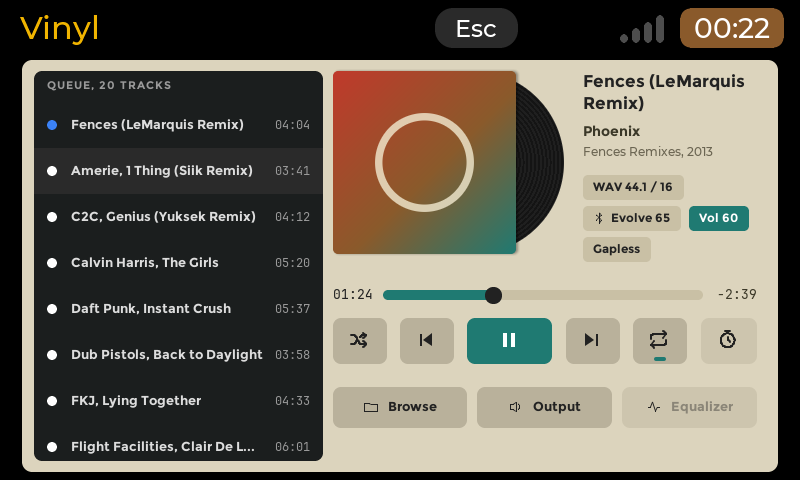
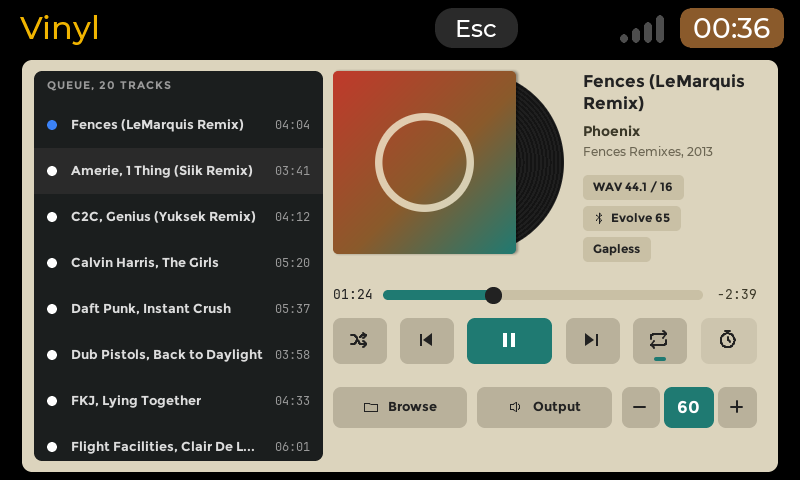
vinyl: the large layout gets the volume group (owner, 2026-11-13)
The owner on the full-UX canvas: the Menu key is accepted as the entry
point for tools and settings (P2, not built now); "on large the volume
label "Vol 60" is useless with the volume controls at the bottom of the
screen"; landscape 480x320 keeps its Vol chip and strip.

- Large (800x480 and the other two-pane canvases): Browse | Output | the
  volume group (- 40, the level 52, + 40, 4 px gaps), as NP-800x480 of the
  canvas draws it with Output in its Menu key's place; the dimmed
  Equalizer key is dropped; no Vol chip and no strip. The output chip stays
  a chip that opens Output, on its own row, scrolling when too long
  (layout data: vol_group and out_button_on apart).
- Scenes: qa, qa-novolume and qa-long use the group at 800x480; np-large
  checks the new row. Layout test for the large class. README,
  BOARD-TESTS B16, decisions.md (the owner's words), the 800x480 shot.

Claude-Session: https://claude.ai/code/session_01DZirtLRRFpxSjax5Qp5ZSW

Changed region(s): [[0.8125, 0.7812, 0.9375, 0.9062], [0.8438, 0.4062, 0.9375, 0.5], [0.875, 0.0312, 0.9688, 0.0938]]

diff --git a/apps/vinyl/src/core/layout/layout.cpp b/apps/vinyl/src/core/layout/layout.cpp
@@ -123,6 +123,7 @@ NowGeom now_geom(SizeClass c) {
         g.repeat_dash = R{266, 408, 12, 4};
         g.bottom = {word("queue", 24, 426, 100, 40)};
         g.vol_group = true; /* owner, 2026-11-13: the Output key becomes the volume group */
+        g.out_button_on = true;
         g.vol_minus = R{132, 426, 48, 40};
         g.vol_value = R{184, 426, 60, 40};
         g.vol_plus = R{248, 426, 48, 40};
@@ -157,6 +158,7 @@ NowGeom now_geom(SizeClass c) {
         g.upnext = R{20, 366, 440, 44};
         g.bottom = {word("browse", 20, 420, 120, 42), word("queue", 150, 420, 120, 42)};
         g.vol_group = true; /* owner, 2026-11-13: the Output key becomes the volume group */
+        g.out_button_on = true;
         g.vol_minus = R{280, 420, 52, 42};
         g.vol_value = R{336, 420, 68, 42};
         g.vol_plus = R{408, 420, 52, 42};
@@ -181,7 +183,7 @@ NowGeom now_geom(SizeClass c) {
         g.chip0 = R{590, 164, 0, 26};
         g.chip_step = 32;
         g.chip_rows = 3;
-        g.chip_layout = {{0}, {2, 1}, {3}};
+        g.chip_layout = {{0}, {2}, {3}}; /* owner, 2026-11-13: no Vol chip, the volume is the bottom group */
         g.short_format = true;
         g.quality_in_chip = false;
         g.time = text(330, 274, 48, 28, 14, false, 28);
@@ -191,7 +193,13 @@ NowGeom now_geom(SizeClass c) {
                        btn("next", 572, 312, 56, 48), btn("repeat", 642, 312, 56, 48), btn("sleep", 712, 312, 58, 48)};
         g.transport.back().enabled = false; /* sleep timer: P2 */
         g.repeat_dash = R{664, 352, 12, 4};
-        g.bottom = {word("browse", 330, 384, 140, 42), word("output", 480, 384, 140, 42), word("eq", 630, 384, 140, 42, false)};
+        /* owner, 2026-11-13 (NP-800x480 of the full-UX canvas): Browse, Output (the Menu key's place, P2), the volume
+         * group where the dimmed Equalizer key was */
+        g.bottom = {word("browse", 330, 384, 140, 42), word("output", 480, 384, 140, 42)};
+        g.vol_group = true;
+        g.vol_minus = R{630, 384, 40, 42};
+        g.vol_value = R{674, 384, 52, 42};
+        g.vol_plus = R{730, 384, 40, 42};
         g.seams = {262, 306, 372};
         break;
     }

diff --git a/apps/vinyl/tests/test_keys_outputs.cpp b/apps/vinyl/tests/test_keys_outputs.cpp
@@ -362,15 +362,25 @@ void test_layout() {
         int ids = 0;
         for (const std::vector<int> &row : g.chip_layout)
             for (int id : row) ids |= 1 << id;
-        CHECK_EQ(ids, c == SizeClass::Small ? 7 : c == SizeClass::Portrait ? 1 : c == SizeClass::Square ? 9 : 15);
-        CHECK_EQ(g.vol_group, c == SizeClass::Square || c == SizeClass::Portrait);
+        /* the large class (owner, 2026-11-13): format, output, gapless chips, no Vol chip */
+        CHECK_EQ(ids, c == SizeClass::Small ? 7 : c == SizeClass::Portrait ? 1 : c == SizeClass::Square ? 9 : 13);
+        CHECK_EQ(g.vol_group, c != SizeClass::Small);
+        CHECK_EQ(g.out_button_on, c == SizeClass::Square || c == SizeClass::Portrait);
         if (g.vol_group) {
-            CHECK(inside(g.vol_minus) && inside(g.vol_value) && inside(g.vol_plus) && inside(g.out_button));
+            CHECK(inside(g.vol_minus) && inside(g.vol_value) && inside(g.vol_plus));
             CHECK(g.vol_minus.right() < g.vol_value.x && g.vol_value.right() < g.vol_plus.x);
             CHECK(g.bottom.back().box.right() < g.vol_minus.x);
             CHECK_NEAR(g.vol_plus.right(), g.transport.back().box.right(), 1e-9); /* the group ends with the keys above */
-            CHECK_NEAR(g.out_button.right(), g.title.box.right(), 1e-9);         /* the button fills the info column */
+            for (const Btn &b : g.bottom) CHECK(b.id != "eq");                    /* the dimmed Equalizer key is gone */
+        }
+        if (g.out_button_on) {
+            CHECK(inside(g.out_button));
+            CHECK_NEAR(g.out_button.right(), g.title.box.right(), 1e-9); /* the button fills the info column */
             for (const Btn &b : g.bottom) CHECK(b.id != "output");
+        } else if (g.vol_group) {
+            bool output_key = false; /* large: the Output key stays until the Menu key (P2) */
+            for (const Btn &b : g.bottom) output_key = output_key || b.id == "output";
+            CHECK(output_key);
         }
         /* the notice box across the seek row */
         const R n = notice_box_now(g, 50);

diff --git a/apps/vinyl/src/core/layout/layout.hpp b/apps/vinyl/src/core/layout/layout.hpp
@@ -91,12 +91,14 @@ struct NowGeom {
     std::vector<Btn> bottom;
     bool has_queue_pane = false;
     R queue_pane;
-    /* The volume group of the square and portrait drafts (owner, 2026-11-13: NowPlaying-480x480 / -320x480): "-", the
-     * level on teal, "+" in the bottom row where the Output key was; no Vol chip and no volume strip on those layouts.
-     * The output chip is then a button of its own (icon, the device's name, a chevron) that opens the Output page:
-     * out_button is its box (portrait: x is the least, it starts right of a wider format chip and ends at the same
-     * right edge). The small and large classes keep the Vol chip, the strip (and the large class its Output key). */
+    /* The volume group (owner, 2026-11-13): "-", the level on teal, "+" in the bottom row; no Vol chip and no volume
+     * strip where it is. Square and portrait (NowPlaying-480x480 / -320x480): it takes the Output key's place and the
+     * output chip becomes a button of its own (out_button_on: icon, the device's name, a chevron; out_button is its box,
+     * in portrait x is the least, it starts right of a wider format chip). Large (NP-800x480 of the full-UX canvas): it
+     * takes the dimmed Equalizer key's place, the Output key stays until the Menu key (P2) exists, the output chip stays
+     * a chip. The small class keeps the Vol chip and its strip. */
     bool vol_group = false;
+    bool out_button_on = false;
     R vol_minus, vol_value, vol_plus;
     R out_button;
     double queue_row_h = 40, queue_heading_px = 11;

diff --git a/apps/vinyl/src/ui/vinyl_view.cpp b/apps/vinyl/src/ui/vinyl_view.cpp
@@ -685,7 +685,7 @@ struct View::Impl {
                 if (id == 2) chips[id].set_scroll();
             }
         }
-        if (g.vol_group) build_out_button(r);
+        if (g.out_button_on) build_out_button(r);
 
         out_hit = hit(r, 0, 0, 1, 1, 0, 0, [this] {
             if (act.button) act.button("output");
@@ -1006,7 +1006,7 @@ struct View::Impl {
         /* the touch areas over the output and the volume chips follow the chips (layout_now_hits); the square and
          * portrait layouts have the output button instead */
         for (NowHit &e : now_hits) {
-            if (g.vol_group && e.obj == out_hit) continue;
+            if (g.out_button_on && e.obj == out_hit) continue;
             const Chip *c = e.obj == out_hit ? &chips[2] : (vol_hit && e.obj == vol_hit) ? &chips[1] : nullptr;
             if (!c) continue;
             show(e.obj, c->width > 0);
@@ -1015,7 +1015,7 @@ struct View::Impl {
         place_out_button(v);
         update_vol_group(v);
         const int outb_x = outb_box ? lv_obj_get_x(outb_box) : 0;
-        const int sig[7] = {chips[1].x, chips[1].width, g.vol_group ? outb_x : chips[2].x, chips[2].width, vol_mode ? 2 : 1,
+        const int sig[7] = {chips[1].x, chips[1].width, g.out_button_on ? outb_x : chips[2].x, chips[2].width, vol_mode ? 2 : 1,
                             chips[1].y, chips[2].y};
         if (!std::equal(sig, sig + 7, hits_sig)) { /* the chips moved, or the strip opened or closed */
             std::copy(sig, sig + 7, hits_sig);

diff --git a/apps/vinyl/README.md b/apps/vinyl/README.md
@@ -29,7 +29,7 @@ The deck (640x480) with the volume strip, square (720x720, the HackBerry) and la
 | Page | What |
 |---|---|
 | **Browser** (the root) | `~/Music` and the mounted drives (`/media/<user>`, `/run/media/<user>`, `/mnt`): folders A-Z, playlists (`.m3u`, `.m3u8`), tracks A-Z (natural order) with their title tags and lengths; the mini player at the bottom. A track plays its folder as the queue; a playlist plays its entries. |
-| **Now playing** | cover art (embedded JPEG or PNG, else the drawn sleeve), title (one line that scrolls, or two lines on the square and large screens), artist, album and year, the format, the output (a button on the square and portrait layouts), the volume (a chip on 480x320 and 800x480, the bottom volume group on the square and portrait layouts); the position with a seek bar (a tap seeks), previous, play / pause, next, shuffle, repeat (off, all, one: a teal mark, and a "1" for one); up next (square), the queue pane (large). |
+| **Now playing** | cover art (embedded JPEG or PNG, else the drawn sleeve), title (one line that scrolls, or two lines on the square and large screens), artist, album and year, the format, the output (a button on the square and portrait layouts), the volume (a chip on 480x320 and 640x480, the bottom volume group on the square, portrait and large layouts); the position with a seek bar (a tap seeks), previous, play / pause, next, shuffle, repeat (off, all, one: a teal mark, and a "1" for one); up next (square), the queue pane (large). |
 | **Queue** | the play order from the playing track, "3 OF 20, 1 H 24 MIN LEFT"; Move up, Move down, Remove, Clear all (keeps the playing track). No dragging anywhere. |
 | **Output** | Automatic (the system's default output), the Bluetooth devices (music or call quality), the wired outputs, a paired device that is off (dimmed). Vinyl never switches output by itself: when the output in use goes away, playback pauses ("Evolve 65 disconnected. Paused."). |
 
@@ -51,7 +51,7 @@ output lists are read in the background).
 | Folder up | Left or Backspace (browser) | the ".." row |
 | Queue pane (800x480 and wider) | Up / Down pick a track, Enter plays it | tap picks, tap again plays |
 | Queue editing | U move up, D move down, Delete or X remove, C clear all | the four buttons |
-| Volume | `-` / `=`: the volume of the output Vinyl plays on, 5 % a step | square and portrait layouts: "-" and "+" of the volume group in the bottom row, the level between them (teal); 480x320 and 800x480: tap the volume chip, the volume strip ("-", the level, its bar, "+") replaces the seek row for 4 s (a second tap closes it). Both set and show the playing output's real level; where nothing can change it a tap shows "Volume is not available on this board" |
+| Volume | `-` / `=`: the volume of the output Vinyl plays on, 5 % a step | square, portrait and large (800x480) layouts: "-" and "+" of the volume group in the bottom row, the level between them (teal); 480x320 (and the deck's 640x480): tap the volume chip, the volume strip ("-", the level, its bar, "+") replaces the seek row for 4 s (a second tap closes it). Both set and show the playing output's real level; where nothing can change it a tap shows "Volume is not available on this board" |
 | Close a notice | Esc | tap it (it also goes after 6 s, 8 s for a disconnect) |
 | Back; at the browser, quit | Esc | the header's Esc |
 | Headset, speaker, keyboard media keys | Play/Pause, PlayCD, PauseCD (a toggle), Next, Previous (as Right / Left above, held too), Stop (pause and back to the start) | |
@@ -141,8 +141,9 @@ Delete it to start fresh. Vinyl writes nothing else (it never writes tags or mus
 ## Known limits (0.1.0)
 
 - Folder browsing only: no library database, no search, no artist / album views (P2).
-- No EQ, ReplayGain, crossfade or sleep timer: the drafts' sleep-timer and Equalizer keys are drawn dimmed, and the
-  "Gapless" chip shows without the ReplayGain figure (P2).
+- No EQ, ReplayGain, crossfade or sleep timer: the drafts' sleep-timer key is drawn dimmed (the Equalizer key of 800x480
+  gave its place to the volume group), and the "Gapless" chip shows without the ReplayGain figure (P2). The Menu key (tools
+  and settings) is P2 too.
 - No metadata to headsets or car displays (MPRIS / AVRCP, P2); headset keys work when BlueZ hands them to an input node.
 - A cover larger than 1200 px on its long side is not decoded (the memory cap on the Pi Zero 2 W): the drawn sleeve shows.
 - FFmpeg seeks land on the packet at or before the position; the AAC length is the container's.

diff --git a/apps/vinyl/tests/BOARD-TESTS.md b/apps/vinyl/tests/BOARD-TESTS.md
@@ -34,9 +34,9 @@ volume strip).
 | B13 | Now playing, a keyboard in front: Left within the first 2 s of a track; Left again after 5 s of it; Right | Left within 2 s: the previous track; Left after 2 s: the same track from 0:00; Right: the next track. Each press acts once, on its release | pass
 | B14 | Hold Right (about 2 s), let go; hold Left (about 2 s), let go; once playing, once paused | after half a second the time runs ahead (back) at about 3x with no sound, no scratch; on release the sound comes back from there; paused stays paused; holding Left stops at 0:00 (never the previous track); holding Right past the end goes on into the next track. No extra skip on release | pass
 | B15 | The same short and held presses with the headset's / speaker's next and previous buttons, in front and hidden, and on the touch keys beside play (and the mini player's next key) | the same results as B13 and B14 (if a headset sends no release while held, say what happened: the log has `media key: next` and `(released)` lines) | pass
-| B16 | Square and portrait layouts (HackBerry, PDA mode): tap "+" twice and "-" once in the bottom volume group, then the output button. 480x320 and 800x480: tap the "Vol" chip; tap "+" twice, "-" once; wait; tap the chip twice | the group: the level between "-" and "+" goes up 10, down 5, the playing output's own level (pactl / amixer agree); the output button opens Output. The strip: "-", the level, its bar, "+" replace the seek row, the level goes up 10, down 5; it closes 4 s after the last tap, and a second tap on the chip closes it at once; a tap at the bottom edge of the chip closes the strip (never "+"), a tap at the top edge of a transport key plays that key (never "-" / "+") | pass
+| B16 | Square, portrait and large layouts (HackBerry, PDA mode, 800x480): tap "+" twice and "-" once in the bottom volume group, then the output button (square, portrait) or chip (large). 480x320: tap the "Vol" chip; tap "+" twice, "-" once; wait; tap the chip twice | the group: the level between "-" and "+" goes up 10, down 5, the playing output's own level (pactl / amixer agree); the output button or chip opens Output. The strip: "-", the level, its bar, "+" replace the seek row, the level goes up 10, down 5; it closes 4 s after the last tap, and a second tap on the chip closes it at once; a tap at the bottom edge of the chip closes the strip (never "+"), a tap at the top edge of a transport key plays that key (never "-" / "+") | pass
 
-B16 note (2026-11-13): rewritten for the owner's design change (the volume group on the square and portrait layouts);
+B16 note (2026-11-13): rewritten for the owner's design changes (the volume group on the square, portrait and large layouts);
 the result recorded beside it is the owner's for the strip as it was on every layout: the group needs a run.
 
 B8 note (2026-11-12): only the Evolve 65's volume buttons could be tried (it has no play/pause or next button); the

diff --git a/apps/vinyl/docs/decisions.md b/apps/vinyl/docs/decisions.md
@@ -70,7 +70,7 @@ Each accepted for P1 by the coordinator, owner informed (no owner wording record
 - The sleep-timer and Equalizer keys of the square and large drafts are drawn dimmed with no action (P2 features).
 - Browser rows act on the first tap (open a folder, play a track) at the compact list height.
 - Controls drawn smaller than 7 mm keep their drawn look and get a larger invisible touch area (R-4 applies).
-- The volume strip's "-" and "+" (480x320, 800x480 and the other large canvases since 2026-11-13) are drawn lower than
+- The volume strip's "-" and "+" (480x320 and the deck's 640x480 since 2026-11-13) are drawn lower than
   the touch target where the band between the chips and the transport keys is lower; their touch areas take the band
   (accepted as a WARN by the coordinator, 2026-11-12; the sizes are on the `volume_strip_buttons` line of the QA
   hand-off). The volume group's "-" and "+" are drawn as the drafts give them, their touch areas at least the target
@@ -141,6 +141,20 @@ background), remove the volume label and expand the output one that can be selec
 - The coordinator, same day: the time labels as wide as their format needs, h:mm:ss for a track of an hour or more on
   both sides of the seek bar (a one-hour mixtape showed "-3..."); a sink's name without the server's profile words
   ("USB Audio Device Analog Stereo" -> "USB Audio Device").
+
+## The large layout and the Menu key (owner, 2026-11-13)
+
+The owner's answers on the full-UX canvas: the Menu key is accepted as the entry point for tools and settings
+(equalizer, sleep timer, playback, library, output, about; the Menu pages are P2, not built now); the large layout:
+"on large the volume label "Vol 60" is useless with the volume controls at the bottom of the screen"; landscape
+480x320 keeps its Vol chip and strip.
+
+- Large (800x480 and the other two-pane canvases): the bottom row is Browse | Output | the volume group ("-" 40, the
+  level 52 on teal, "+" 40, 4 px gaps; the keys 140 wide), as NP-800x480 of the canvas draws it with Output where its
+  Menu key will be; the dimmed Equalizer key is dropped. No Vol chip and no volume strip on large; the output chip stays
+  a chip that opens Output, on a row of its own, scrolling when a name is too long.
+- Not built now: the Menu key and its pages (P2). The layout data leaves room: a Menu key can take the dimmed sleep-timer
+  key's place on square and be a seventh key on landscape.
 
 ## Volume strip touch areas (the coordinator, 2026-11-12)
 
